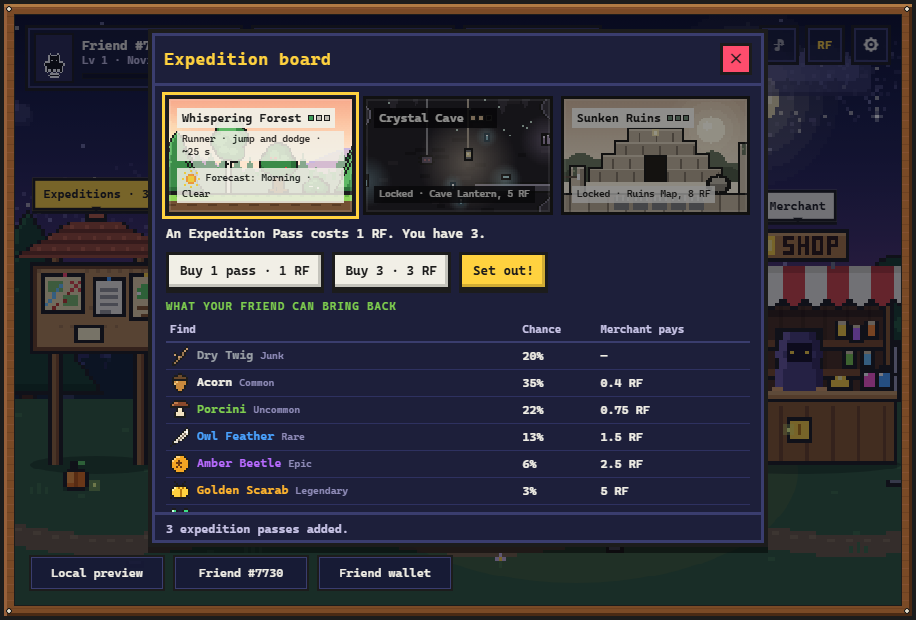
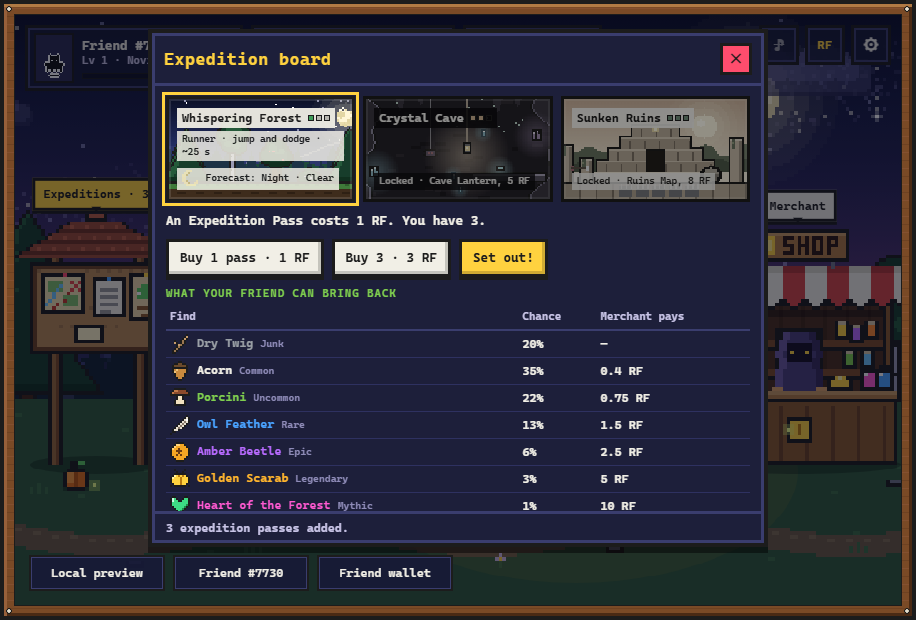
Submission in the organizer's format; keepsakes in the docs; fresh screenshots
- Submission: what/how sections, hold-or-redeem economy, what would be on-chain,
  randomness, pinned reviewed commit, costs table with keepsake bonuses, tests.
- Game README: keepsake section; README: economy and simulate commands.

Changed region(s): [[0.1528, 0.1532, 0.8253, 0.8581]]

diff --git a/submission/README.md b/submission/README.md
@@ -1,88 +1,40 @@
 # Rare Friends: Expeditions
 
-Send your Rare Friend from a night camp on short expeditions (a forest runner, a lantern-lit cave descent and a top-down ruins trap gauntlet): buy a 1 RF pass, play the run, and bring back a chest with a find you keep or sell for RF.
+![Night camp with the expedition board, Outfitter, Collection and Merchant](https://raw.githubusercontent.com/DEDQ3E/rare-friends-expeditions/main/media/camp.png)
 
-**Builder:** [DEDQ3E](https://github.com/DEDQ3E) · **Contact:** Discord `dedq3e3`, Telegram [@DEDQ3E](https://t.me/DEDQ3E) · **Category:** Economy Potential · **SDK:** FriendSDK v0.1.2
+🕹 **Play: https://dedq3e.github.io/rare-friends-expeditions/**
 
-Your selected Generations NFT is the hero of every expedition, and $RAREFRIENDS powers two independent spend loops: repeatable Expedition Passes (SDK chance game) and an Outfitter RF sink (50% burn / 50% Friend rewards). [Source code](https://github.com/DEDQ3E/rare-friends-expeditions) · [Game rules](https://github.com/DEDQ3E/rare-friends-expeditions/blob/main/games/expeditions/README.md) · [Economy](https://github.com/DEDQ3E/rare-friends-expeditions/blob/main/games/expeditions/game.json)
+**Project name**
+Rare Friends: Expeditions
 
-**Why it is an economy, not just a minigame:** two independent $RAREFRIENDS loops run side by side: a repeatable pass with a transparent 0.90 RF expected return where every pass reserves its 10 RF top prize, and a never-refunded Outfitter sink that burns 50% of each purchase. Every find carries a fixed Merchant price with no expiry, a ready-made price floor if finds become tradable assets paired with $RAREFRIENDS.
+**Builder / contact**
+[DEDQ3E](https://github.com/DEDQ3E) · Discord `dedq3e3` · Telegram [@DEDQ3E](https://t.me/DEDQ3E)
 
-| | | |
-|---|---|---|
-| ![Night camp](https://raw.githubusercontent.com/DEDQ3E/rare-friends-expeditions/main/media/camp.png) | ![Expedition board with odds and prices](https://raw.githubusercontent.com/DEDQ3E/rare-friends-expeditions/main/media/board.png) | ![Economy panel](https://raw.githubusercontent.com/DEDQ3E/rare-friends-expeditions/main/media/economy.png) |
-| ![Whispering Forest](https://raw.githubusercontent.com/DEDQ3E/rare-friends-expeditions/main/media/forest.png) | ![Crystal Cave](https://raw.githubusercontent.com/DEDQ3E/rare-friends-expeditions/main/media/cave.png) | ![Sunken Ruins](https://raw.githubusercontent.com/DEDQ3E/rare-friends-expeditions/main/media/ruins.png) |
+**Category**
+Economy Potential
 
-## Play it
+## What did you build?
 
-**Public preview:** https://dedq3e.github.io/rare-friends-expeditions/
+A night camp from which your Rare Friend sets out on short expeditions, each paid for with a 1 RF Expedition Pass and each ending at a chest with one find to keep or sell. Three places, three different mini-games: the **Whispering Forest** (a side-scrolling runner with weather and time of day), the **Crystal Cave** (a lantern-lit descent on a rope through four zones) and the **Sunken Ruins** (a top-down trap gauntlet against a 75-second hourglass). Around them: a Merchant that buys finds at fixed prices, an Outfitter that sells gear and trails as an RF sink, a collection with a hero card, an Economy panel, Friend perks, emotes, a limited Harvest Season and procedural music. Everything lives inside the SDK's 960 × 640 container, and on phones the panels switch to a compact layout.
 
-Requires a browser wallet on **Robinhood mainnet (4663)** holding a **hardwired Rare Friends Generations NFT (generation ≥ 1)**. The SDK runtime connects the wallet, lists your Friends and verifies ownership before play. No RF funding or transaction signature is needed: everything is simulated.
+## How does it use Rare Friends?
 
-Run locally with Node.js 22+ on Linux, Windows with WSL2 (both supported by FriendSDK) or native Windows (verified for this project on Windows 11 with Node.js 24). Step-by-step notes for each platform: [Run locally](https://github.com/DEDQ3E/rare-friends-expeditions#run-locally).
+The selected, ownership-verified Friend is the hero of every expedition. Its canonical Generations frames are read through the SDK and drawn in the canonical look (black mask, white one-pixel halo), with its own shape and walk animation. Nothing is worn on it or drawn over it: gear only changes gameplay, the torch and the cave lantern are held beside it, trails are particles behind it, and it is redrawn after rain, darkness and light overlays so nothing tints it. Its **family** picks one of nine perks and its **generation** (read-only `readGenerationEligibility`) sets the strength, from rank V for Generation 1 to rank I for Generation 5, so different Friends play differently. The SDK runtime handles the wallet, Friend selection and the ownership gate; the game adds no wallet code.
 
-```sh
-git clone https://github.com/DEDQ3E/rare-friends-expeditions.git
-cd rare-friends-expeditions
-npm install
-npm run dev
-```
+## How RF is spent, and the economy
 
-## How to play
-
-1. **Camp:** your Friend rests by the fire. Walk around with W A S D and press E at a place (or tap its label). Open the **Expeditions** board, buy passes (1 RF) and press **Set out!** The find is committed at this moment (`client.play`).
-2. **Forest run (~25 s):** a side-scrolling lane: jump with W / Space / ↑ or a tap (Spring Boots add a double jump), move with A / D, drop with S. Collect sparks for XP; roots, slimes and bees cost a heart. Running well gives XP only and never changes the odds. If hearts run out, the run ends and the chest is still delivered without the finish XP bonus: the pass fixed the find at the start (SDK rule: one pass, one result).
-3. **Chest:** the find is revealed (`client.settle`). Keep it or sell it.
-4. **Merchant:** sell finds at fixed prices with no expiry (`client.redeem`).
-5. **Outfitter:** gear: Spring Boots (double jump, 3 RF), Trail Backpack (+1 heart, 4 RF), Cave Lantern (opens the Crystal Cave, 5 RF), Ruins Map (opens the Sunken Ruins, 8 RF); Spark Trail (4 RF), sparkles behind the Friend.
-6. **Collection:** a hero card for your Friend (portrait, family, generation, perk, level, expeditions, pickups, best find) and the finds of all three places.
-7. **Forest life:** oaks, pines and birches; roots, rocks, poisonous mushrooms and fallen logs; slimes in three colours with different moves, hedgehogs, bees and wasps by day, bats at night and frogs in the rain.
-8. **Weather:** each expedition has its own time of day (morning, day, evening, night) and rain (clear, light, heavy, thunderstorm), shown as a forecast on the board. Rain pays a little more XP (×1.1 / ×1.2 / ×1.3) but never changes the odds. The camp weather changes on its own.
-9. **Friend perks:** the Friend's family picks a perk (Bone Guard, Spirit Sight, Kindred, Mitosis, Wild Step, Hover, Heavy Stomp, Glitter, Phase); its generation sets the strength, from rank V (Generation 1) to rank I (Generation 5). Generation 6 plays without a perk. Perks affect the run and XP only, never odds, prices or access.
-10. **Emotes:** speech bubbles and a celebration where the Friend holds its find up, drawn next to the Friend.
-11. **Workbench:** any 10 junk finds (Dry Twigs, Plain Pebbles or Pottery Shards) craft a cosmetic Twig Torch that glows at night.
-12. **Economy panel:** tap the RF balance to see where RF goes (game bank, Merchant, Outfitter 50% burn / 50% rewards), with the 0.90 RF expected return, 10% edge and session totals.
-13. **Sound (on by default, starts with the first click or key; ♪ mutes):** calm camp music, forest tunes by time of day, campfire and crickets, birds, rain that sounds different when light, heavy or stormy (with thunder), plus footsteps, jumps, hits and pickups. All synthesized in code.
-14. **Crystal Cave (second mini-game):** with a Cave Lantern (5 RF) the Friend is lowered down a dark shaft on a rope instead of running: steer with A / D, hold W / Space / tap to slow down, S to dive. Lantern light, glowing crystals and creatures' eyes. Harder than the forest, in four zones: ledges and spiders, then drafts, cave bats, crystal beetles and falling rocks with a warning, then narrow gates and swinging slabs, then everything at once; the rope runs faster the deeper it goes. Crystals give XP (×1.5, chest bonus +10). Same odds and prices, cave-themed finds.
-15. **Harvest Season (until Nov 30):** a limited Falling Leaves trail in the Outfitter (5 RF), same 50% burn / 50% rewards split; pumpkins decorate the camp.
-16. **Sunken Ruins (third mini-game, hardest):** with a Ruins Map (8 RF) the view turns top-down and the Friend crosses a temple tile by tile to the altar before a 75-second hourglass runs out: spike plates rising in waves, dart traps, rolling boulders, crumbling floor over pits and fire vents, in three ever harder halls. Relic shards give XP (×2, chest bonus +15), the most of the three places. Same odds and prices, ruins-themed finds.
-
-Settings include sound on/off (on by default, starting with the first click or key), music on/off, volume, reduce motion and an explanation of sparks, crystals and relic shards (XP). Keyboard (W A S D / arrows, Space, E, Esc) and touch (on-screen pad and action button) are supported; the game honors the runtime's `paused` state and stops held movement on blur.
-
-**Friend artwork (preserved):** the selected Friend is always drawn from its canonical Generations sprite frames in the canonical look (black mask, white one-pixel halo), with its own shape and walk animation. Nothing is worn on it or drawn over it: gear only changes gameplay, the torch and the cave lantern are held beside it, trails are particles behind it, and it is redrawn after weather, darkness and light overlays so nothing tints it.
-
-**Game container:** all game content and menus render inside the SDK's 960 × 640 container (3:2, smaller only on small screens). The optional `host.css` only centers that container on a themed page with a decorative frame and restyles the SDK toolbar colors; the wallet, Friend selection and confirmations stay the SDK's own controls in their own positions. On phones (a frame under 420 px tall) the panels switch to a compact layout that fills the frame, and a phone held upright shows a closable hint to turn it sideways, where the 3:2 frame is much larger. On mobile, open the preview link in your wallet app's built-in browser (for example MetaMask → Browser): regular mobile browsers have no wallet extension.
-
-## Rules and rewards
-
-**All balances, purchases, finds and sales are simulated.** One Expedition Pass costs 1 RF and produces exactly one find.
-
-| Find | Rarity | Chance | Merchant pays |
-|---|---|---:|---:|
-| Dry Twig | Junk | 20% | 0 RF |
-| Acorn | Common | 35% | 0.4 RF |
-| Porcini | Uncommon | 22% | 0.75 RF |
-| Owl Feather | Rare | 13% | 1.5 RF |
-| Amber Beetle | Epic | 6% | 2.5 RF |
-| Golden Scarab | Legendary | 3% | 5 RF |
-| Heart of the Forest | Mythic | 1% | 10 RF |
-
-Expected reward: **0.90 RF per pass** (10% game edge, price curve as in the SDK fishing reference); 23% chance of 1 RF or more. Each purchased pass reserves the maximum 10 RF prize; kept finds retain backing and have no redemption expiry. Outcome names in `game.json` are rarity tiers, so the Crystal Cave and Sunken Ruins reuse the same table and only change how finds look.
-
-**Outfitter purchases are never refunded.** The proposed split mirrors the Rare Friends protocol rule: 50% of each purchase is burned and 50% goes to Friend rewards. FriendSDK v0.1.2 has no upgrade or cosmetic API, so these purchases are simulated on top of the SDK ledger. None of them change RF odds.
-
-## Economy design
-
-**Two independent RF loops, both visible in the game's Economy panel:**
+**Two independent RF loops**, both shown in the game's Economy panel:
 
 | Loop | Player pays | Player gets back | Where the rest goes |
 |---|---|---|---|
-| Expedition Pass (SDK chance game, repeatable) | 1 RF per pass | one find, redeemable at the Merchant for 0.90 RF on average | 10% edge stays in the game bank; every pass reserves the 10 RF top prize, so the bank can always pay |
+| Expedition Pass (SDK chance game, repeatable) | 1 RF per pass | one find, worth 0.90 RF on average at the Merchant | 10% edge stays in the game bank; every pass reserves the 10 RF top prize, so the bank can always pay |
 | Outfitter (pure sink) | 3–8 RF per item, 29 RF for the full catalog | nothing: never refunded, no effect on odds | 50% burned, 50% to Friend rewards (proposed protocol split) |
+
+**Hold or redeem.** A find is a *productive keepsake*: while the Friend keeps it, it adds XP to every expedition, and selling it at the Merchant pays its fixed RF and gives the bonus up. Common +1%, Uncommon +2%, Rare +5%, Epic +10%, Legendary +25%, Mythic +60%, up to +100% in total. Rarer finds give more bonus per RF they hold back (2.5% per RF for a Common, 6% per RF for a Mythic), so the biggest prizes are the ones most worth keeping and **their RF stays in the game as backing** instead of returning to circulation. The bonus changes XP only, never odds, prices or finds.
 
 **Per pass:** expected return 0.90 RF, standard deviation 1.34 RF, 23% chance of getting 1 RF or more back.
 
-**Simulated sessions** (200,000 seeded Monte Carlo sessions from `game.json`, every find sold at the Merchant):
+**Simulated sessions** (200,000 seeded Monte Carlo sessions from `game.json`, every find sold; reproduce with `npm run simulate`):
 
 | Passes | Mean back | 10th pct | Median | 90th pct | 99th pct | Sessions ending ahead |
 |---:|---:|---:|---:|---:|---:|---:|
@@ -91,24 +43,88 @@ Expected reward: **0.90 RF per pass** (10% game edge, price curve as in the SDK 
 
 Most sessions lose a little, about three in ten end ahead, and big finds are rare but real. The edge is small enough to keep players coming back and large enough to fund the bank.
 
-**Why players keep spending RF:**
+**Why players keep spending RF:** harder places behind gear (Cave Lantern 5 RF, Ruins Map 8 RF, with ×1.5 and ×2 XP), gear and trails that change the run and the look but never the odds, a Harvest Season trail sold only until Nov 30, keepsakes worth holding, and a Twig Torch crafted from 10 junk finds, so even a 0 RF chest moves progress.
 
-- **Access:** the Crystal Cave (Cave Lantern, 5 RF) and the Sunken Ruins (Ruins Map, 8 RF) are harder places with ×1.5 and ×2 XP.
-- **Gear and style:** Spring Boots, Trail Backpack and trails change the run and the look, never the odds, so spending buys fun, not an edge.
-- **Scarcity in time:** the Harvest Season trail is sold only until Nov 30. Every season can add a new limited sink.
-- **Junk has a use:** 10 junk finds craft a Twig Torch, so even a 0 RF chest moves progress.
-- **Your Friend matters:** for generations 1–5, the family picks a perk and the generation sets its strength, so different Friends play differently.
+## What would be on-chain?
 
-**Roadmap to a live economy (not in this MVP; everything above is simulated):**
+Nothing in this build; no transaction is ever sent. Going live needs no new contract for the pass loop, only a deployment of the SDK's `ChanceGame` with this `game.json` (its RF price and outcome table are immutable):
 
-1. **Passes on-chain:** switch from the simulated adapter to FriendSDK's live chance-game contract with the same `game.json`, the same odds and the same bank reserve.
-2. **Finds as tradable assets paired with $RAREFRIENDS:** every find already has a fixed Merchant price with no expiry, which works as a built-in price floor. Players could trade finds above that floor, with a creator fee on each trade flowing to the game bank and Friend rewards. A 1% Mythic find becomes a real collectible.
-3. **Seasons as limited editions:** each season adds a time-limited Outfitter item and new themed finds, a recurring reason to spend.
-4. **Outfitter burn as a protocol integration:** the 50% burn / 50% rewards split needs a custom RF integration (FriendSDK v0.1.2 has no upgrade API).
-5. **Persistent progress** once the SDK offers storage: XP, levels and gear saved per Friend make gear a lasting purchase.
+- `buy` pays RF from the Friend's canonical NFT wallet and mints Expedition Passes into it (non-transferable consumables). Each purchase reserves the 10 RF top prize from the game's stake.
+- `play` burns a pass and commits the play when the Friend sets out.
+- A sponsor pays the Dice fee, the oracle records one random word, and anyone can `settle`: the find is minted as a permanent ERC-1155 reward into the canonical NFT wallet.
+- `redeem` burns a find for its fixed RF, back into the same NFT wallet, with no expiry. Reserves for unused passes, pending plays and kept finds cannot be withdrawn by the developer.
 
-## Checks, credits and limitations
+RF, passes, finds, backing and every outcome would be on-chain. The keepsake bonus becomes a read of the Friend wallet's find balances, so it is verifiable from chain state. XP, levels, gear and the runs stay off-chain. The Outfitter's 50% burn / 50% rewards split needs a custom RF integration, and saved progress needs storage that FriendSDK v0.1.2 does not supply.
 
-Checks run: `npm run typecheck` (pass), `npx friendsdk check games/expeditions` (valid; expected reward 0.9 RF, maximum 10 RF), `npx friendsdk test games/expeditions` (automated fixture at 960 px, pass), `npm run playthrough` — a scripted Playwright playthrough with the SDK mock wallet covering camp walking, buying passes, the forest run, chest, selling, Outfitter, collection, economy panel, the Crystal Cave descent and the Sunken Ruins gauntlet (pass), and `npm run compliance` — the SDK container stays at most 960 × 640 with a 3:2 ratio at 1920×1080, 1382×800, 1024×700, 390×844 and 844×390, the game runs in the SDK iframe with `sandbox="allow-scripts"`, and the SDK toolbar labels stay inside the container and are not cut off (pass), and `npm run mobile` — the camp and every camp panel at phone sizes 390×844, 844×390 and 740×360, plus a forest run and the chest reveal at 844×390 (pass). Automated browser tests use mocked wallets and RPC. A manual playthrough of the public preview with a real wallet on Robinhood mainnet (4663) holding a Generations NFT also passed: wallet connection, Friend selection, ownership gate and the full expedition loop.
+## How does it use randomness?
 
-All camp, forest, cave, ruins, find, chest and UI artwork was drawn in code for this project; music and sound effects are synthesized in code. The Friend uses the canonical Rare Friends Generations sprites and the SDK sound kit under the FriendSDK NOTICE. No trading, wearable NFTs, creator fees or live contracts are included. Known limits: the SDK sandbox has no storage, so XP, level and Outfitter items reset on reload; Outfitter burn/rewards needs a custom RF integration before live use; which cave and ruins finds you hold is remembered per session (the SDK inventory counts rarity tiers). Production publication needs separate Rare Friends review.
+Only the find is a paid random outcome. In the preview it comes from the SDK's simulated ledger; live, it is the SDK's Dice commit-and-reveal flow: the pass is burned and the play committed before any randomness exists, one request per play, no reroll, and a slow delivery resumes the same play ("Resume expedition") without another pass. The browser never chooses the find, and the chest is delivered even if the Friend runs out of hearts: the SDK rule is one pass, one result. Obstacles, creatures, weather and pickups are browser-random gameplay with no RF value; skill and weather change XP only.
+
+## Source code
+
+[GitHub repository](https://github.com/DEDQ3E/rare-friends-expeditions) · reviewed build: commit [`a52a591`](https://github.com/DEDQ3E/rare-friends-expeditions/tree/a52a591afcd027a7ad6d6d75eb857a29e1954324) · FriendSDK v0.1.2 · React 19 · TypeScript · [Game rules](https://github.com/DEDQ3E/rare-friends-expeditions/blob/main/games/expeditions/README.md) · [Economy (`game.json`)](https://github.com/DEDQ3E/rare-friends-expeditions/blob/main/games/expeditions/game.json)
+
+## Playable demo / how to run
+
+**Play: https://dedq3e.github.io/rare-friends-expeditions/** (GitHub Pages, built with `friendsdk build`). You need a browser wallet holding a hardwired Rare Friends Generations NFT (generation 1 or higher) on Robinhood mainnet (chain 4663). No RF funding or transaction signature is needed. On a phone, open the link in your wallet app's built-in browser (for example MetaMask → Browser) and hold the phone sideways: regular mobile browsers have no wallet extension.
+
+To run locally with Node.js 22+ on Linux, Windows with WSL2 (both supported by FriendSDK) or native Windows (verified on Windows 11 with Node.js 24):
+
+```sh
+git clone https://github.com/DEDQ3E/rare-friends-expeditions.git
+cd rare-friends-expeditions
+npm ci
+npm run dev        # http://localhost:4173
+```
+
+Step-by-step notes for each platform: [Run locally](https://github.com/DEDQ3E/rare-friends-expeditions#run-locally).
+
+## How do you play?
+
+1. **Camp:** walk with W A S D or the arrows (on touch, the on-screen pad) and press **E** at a place, or tap its label. At the **Expeditions** board buy passes, pick a place and press **Set out!** The find is committed at this moment.
+2. **Whispering Forest (~25 s):** jump with W / Space / ↑ or a tap (Spring Boots add a double jump), move with A / D, drop with S. Collect sparks; roots, rocks, slimes, hedgehogs, bees and bats cost a heart. Each expedition rolls its own time of day and rain, shown as a forecast on the board; rain pays a little more XP (×1.1 / ×1.2 / ×1.3).
+3. **Crystal Cave (Cave Lantern, 5 RF):** the Friend is lowered on a rope: steer with A / D, hold W / Space / tap to slow down, S to dive. Four zones: ledges and spiders, drafts, bats and falling rocks with a warning, narrow gates and swinging slabs, then everything at once. Crystals give XP ×1.5.
+4. **Sunken Ruins (Ruins Map, 8 RF):** top-down, tile by tile to the altar before the sand runs out: spike plates in waves, dart traps, rolling boulders, crumbling floor over pits and fire vents, in three ever harder halls. Relic shards give XP ×2.
+5. **Chest:** the find is revealed. **Keep it** for its keepsake bonus, or **sell** it.
+6. **Merchant:** buys finds at fixed prices with no expiry and shows each find's keepsake bonus.
+7. **Outfitter:** Spring Boots (double jump, 3 RF), Trail Backpack (+1 heart, 4 RF), Cave Lantern (5 RF), Ruins Map (8 RF), Spark Trail (4 RF) and the Harvest Season Falling Leaves trail (5 RF, until Nov 30). The workbench turns 10 junk finds into a Twig Torch that glows at night.
+8. **Collection:** a hero card (portrait, family, generation, perk, level, keepsake bonus, best find) and the finds of all three places. **Economy panel:** tap the RF balance to see where every RF goes.
+
+Pickups give 1 XP each plus a bonus for reaching the chest (doubled without a hit), multiplied by the place, the Friend's perk and its keepsakes. XP raises the level and title: Novice → Tracker → Seeker → Pathfinder → Legend. Settings: sound (on by default, starts with the first click or key), music, volume and reduce motion; the game honors the runtime's `paused` state. Keyboard and touch are both supported.
+
+## Costs and rewards
+
+**Everything is simulated.** You start with 20 RF; each pass costs 1 RF and gives exactly one find. All three places share one table; the place only changes how a find looks.
+
+| Find (forest) | Rarity | Chance | Merchant pays | Keepsake bonus |
+|---|---|---:|---:|---:|
+| Dry Twig | Junk | 20% | 0 RF | — |
+| Acorn | Common | 35% | 0.4 RF | +1% XP |
+| Porcini | Uncommon | 22% | 0.75 RF | +2% XP |
+| Owl Feather | Rare | 13% | 1.5 RF | +5% XP |
+| Amber Beetle | Epic | 6% | 2.5 RF | +10% XP |
+| Golden Scarab | Legendary | 3% | 5 RF | +25% XP |
+| Heart of the Forest | Mythic | 1% | 10 RF | +60% XP |
+
+Expected reward **0.90 RF per pass** (10% game edge, price curve as in the SDK fishing reference). Each purchased pass reserves the 10 RF top prize; kept finds retain backing and have no redemption expiry. **Outfitter purchases are never refunded**: 50% is burned and 50% goes to Friend rewards (proposed split, simulated on top of the SDK ledger because FriendSDK v0.1.2 has no upgrade API). Nothing in the Outfitter changes RF odds.
+
+## What have you tested?
+
+All pass: `npm run typecheck`; `npm run check` (game validation: expected reward 0.9 RF, maximum 10 RF); `npm test` (SDK browser fixture at 960 px); `npm run economy` (exact odds across all 10,000 rolls, expected return, reserve, the keepsake curve, and every published odds and simulation table checked against `game.json` and `npm run simulate`); `npm run playthrough` (a Playwright playthrough of the whole loop: camp walking, buying passes, the forest run, chest, selling, Outfitter, collection, economy panel, the Crystal Cave and the Sunken Ruins); `npm run compliance` (the SDK container stays at most 960 × 640 at 3:2 on five screen sizes, the sandbox is `allow-scripts`, the toolbar is not cut off); and `npm run mobile` (the camp and every panel at 390 × 844, 844 × 390 and 740 × 360, plus a run and the chest sideways). A fresh clone builds with `npm ci`, and the published `docs/` matches a fresh build. Browser tests use the SDK's mock wallet and simulated RPC.
+
+The public preview was played by hand with a real wallet on Robinhood mainnet holding a Generations NFT, including on a phone in a wallet browser (wallet connection, Friend selection, ownership gate and the full expedition loop). That playthrough was before the keepsake bonus was added; the keepsake build passes every automated check above.
+
+## Known limitations
+
+The SDK sandbox has no storage, so XP, level and Outfitter items reset when the session ends. The Outfitter burn / rewards split needs a custom RF integration before live use. Which cave and ruins finds you hold is remembered per session, because the SDK inventory counts rarity tiers. Live mode has never run against a deployed contract. No live token spending, trading, wearable NFTs or creator fees are included.
+
+**Roadmap (not in this MVP):** passes on the SDK's live `ChanceGame`; finds as tradable assets paired with $RAREFRIENDS, where the fixed Merchant price is a built-in price floor and a creator fee on trades flows to the game bank and Friend rewards; a new limited Outfitter item and themed finds every season; persistent XP, levels and gear once the SDK offers storage.
+
+## Credits
+
+All camp, forest, cave, ruins, find, chest and UI artwork is drawn in code for this project; music, ambience and effects are synthesized with Web Audio. The game ships no image, font or audio files and no third-party assets. The Friend uses the canonical Rare Friends Generations sprites and the SDK sound kit under the [FriendSDK NOTICE](https://github.com/spokesz/friendsdk/blob/main/NOTICE.md).
+
+| | | |
+|---|---|---|
+| ![Expedition board with odds and prices](https://raw.githubusercontent.com/DEDQ3E/rare-friends-expeditions/main/media/board.png) | ![Economy panel](https://raw.githubusercontent.com/DEDQ3E/rare-friends-expeditions/main/media/economy.png) | ![Expedition board on a phone](https://raw.githubusercontent.com/DEDQ3E/rare-friends-expeditions/main/media/phone-board.png) |
+| ![Whispering Forest](https://raw.githubusercontent.com/DEDQ3E/rare-friends-expeditions/main/media/forest.png) | ![Crystal Cave](https://raw.githubusercontent.com/DEDQ3E/rare-friends-expeditions/main/media/cave.png) | ![Sunken Ruins](https://raw.githubusercontent.com/DEDQ3E/rare-friends-expeditions/main/media/ruins.png) |

diff --git a/games/expeditions/README.md b/games/expeditions/README.md
@@ -163,7 +163,7 @@ glows at dusk and at night. Junk finds have no RF value, so crafting is free (si
 ## Sparks, crystals and relic shards
 
 Pickups in the forest (sparks), cave (crystals) and ruins (relic shards) give **XP**: 1 XP each, plus a bonus for
-reaching the chest, multiplied by the place and the Friend's perk. The harder the place, the more XP:
+reaching the chest, multiplied by the place, the Friend's perk and its keepsakes. The harder the place, the more XP:
 
 | Place | Difficulty | XP multiplier | Chest bonus (no hit) | Pickups on the way | Full clear, no hit |
 | --- | --- | ---: | ---: | ---: | ---: |
@@ -174,12 +174,32 @@ reaching the chest, multiplied by the place and the Friend's perk. The harder th
 Levels: 0 → 25 → 75 → 160 → 300 XP. XP raises the level and title (Novice → Tracker → Seeker → Pathfinder → Legend). They are
 not RF and never change finds. Settings explains this in the game.
 
+## Keepsakes: hold or redeem
+
+Every find the Friend keeps instead of selling adds XP to every expedition while it is held; selling it at
+the Merchant pays its fixed RF and gives that bonus up. The bonus is read from the SDK inventory, so it always
+matches the ledger, and it is capped at **+100% XP** in total (`keepsakes.ts`).
+
+| Rarity | Merchant pays | Keepsake bonus | Bonus per RF held |
+| --- | ---: | ---: | ---: |
+| Junk | 0 RF | — | — |
+| Common | 0.4 RF | +1% XP | 2.5% |
+| Uncommon | 0.75 RF | +2% XP | 2.7% |
+| Rare | 1.5 RF | +5% XP | 3.3% |
+| Epic | 2.5 RF | +10% XP | 4% |
+| Legendary | 5 RF | +25% XP | 5% |
+| Mythic | 10 RF | +60% XP | 6% |
+
+Rarer finds give more bonus per RF they hold back, so the biggest prizes are the ones most worth keeping and
+their RF stays in the game as backing. Keepsakes change XP only, never odds, prices or finds. The chest
+screen, the Merchant, the hero card and the Economy panel show the bonus.
+
 ## Economy panel
 
 Tap the RF balance (or the **RF** button) to see where every RF goes: passes go to the game bank that
 pays the Merchant; Outfitter purchases split 50% burned / 50% Friend rewards. It also lists the
-expected return (0.90 RF), the edge (10%), the 23% chance of 1 RF or more, the 10 RF reserve and this
-session's totals.
+expected return (0.90 RF), the edge (10%), the 23% chance of 1 RF or more, the 10 RF reserve, the current
+keepsake bonus and this session's totals.
 
 ## Economy (`game.json`)
 

diff --git a/README.md b/README.md
@@ -2,7 +2,8 @@
 
 Send your Rare Friend from a cozy night camp on short expeditions: a forest runner, a dark cave descent and a trap-filled ruins maze.
 Every expedition costs one Expedition Pass (1 RF) and ends at a chest with a find that you keep
-or sell back for RF. An outfitter sells gear and cosmetics as a pure RF sink (50% burn / 50% rewards).
+or sell back for RF. Kept finds add XP to every expedition (hold or redeem), and an outfitter sells gear
+and cosmetics as a pure RF sink (50% burn / 50% rewards).
 
 **Play the preview:** https://dedq3e.github.io/rare-friends-expeditions/
 (needs a browser wallet on Robinhood mainnet, chain 4663, holding a hardwired Rare Friends Generations NFT, generation ≥ 1)
@@ -75,6 +76,8 @@ npm install -D playwright && npx playwright install chromium
 npm test                                # SDK browser smoke test (mock wallet)
 npm run playthrough                     # buy → expedition → chest → sell → outfitter → collection
 npm run mobile                          # phone sizes: camp and every panel; a run and the chest sideways
+npm run economy                         # exact odds over 10,000 rolls, EV, keepsakes, published tables
+npm run simulate                        # seeded Monte Carlo behind the submission's session table
 npm run build                           # static build into docs/ (GitHub Pages)
 ```
 
@@ -88,9 +91,11 @@ npm run build                           # static build into docs/ (GitHub Pages)
 | `games/expeditions/audio.ts` | Music, ambience and effects synthesized with Web Audio |
 | `games/expeditions/art.ts` | Pixel art drawn in code: Friend sprite, scenery, finds, trails |
 | `games/expeditions/game.json` | Economy: pass price, outcome weights, merchant prices |
+| `games/expeditions/keepsakes.ts` | Keepsake bonus for kept finds (hold or redeem) |
+| `scripts/simulate.mjs` | Seeded Monte Carlo of pass sessions |
 | `games/expeditions/README.md` | Controls, exact rules and economy |
 | `docs/` | Static build served by GitHub Pages |
-| `tests/` | Playthrough, container compliance, phone layout and README screenshot scripts |
+| `tests/` | Economy, playthrough, container compliance, phone layout and README screenshot scripts |
 | `media/` | Screenshots used in the READMEs (`node tests/media.mjs media`) |
 
 Game rules and the full economy table: [games/expeditions/README.md](games/expeditions/README.md).
